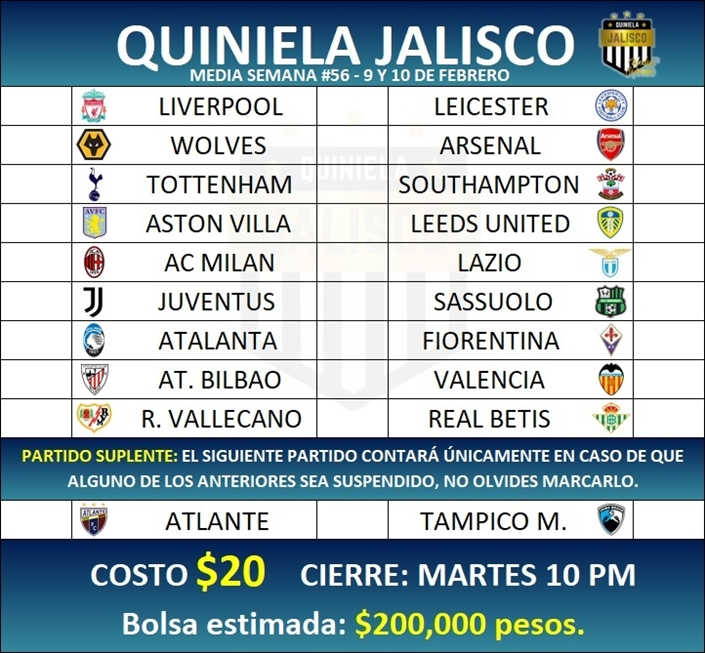
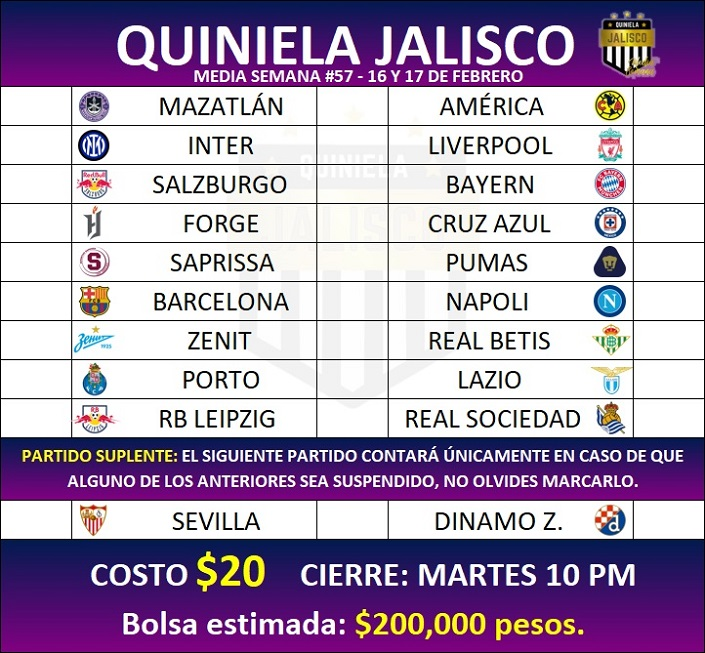
Media Semana #57

diff --git a/MediaSemana/stylesmSusp.css b/MediaSemana/stylesmSusp.css
@@ -92,8 +92,8 @@ h1{
     margin-top: 8%;
     border: solid 1px black;
     border-radius: 0 0 14px 14px;
-    background: -webkit-linear-gradient(0turn, rgb(1,33,82)  ,rgb(31,84,116) 80%);
-    background: linear-gradient(0turn, rgb(1,33,82)  ,rgb(31,84,116) 80%);
+    background: -webkit-linear-gradient(0turn, rgb(8,26,81)  ,rgb(76,10,106) 80%);
+    background: linear-gradient(0turn, rgb(8,26,81)  ,rgb(76,10,106) 80%);
     font-size: x-large;
     text-shadow: 1px 1px 5px black;
 }
